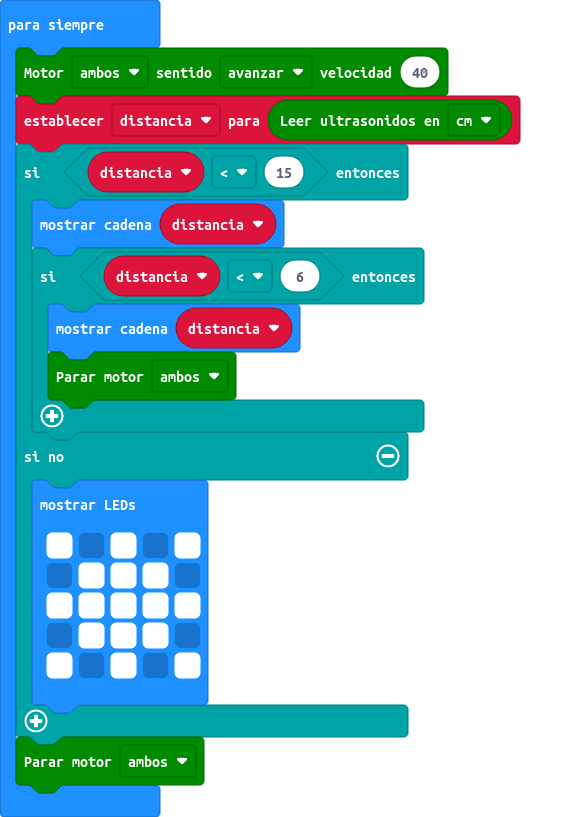
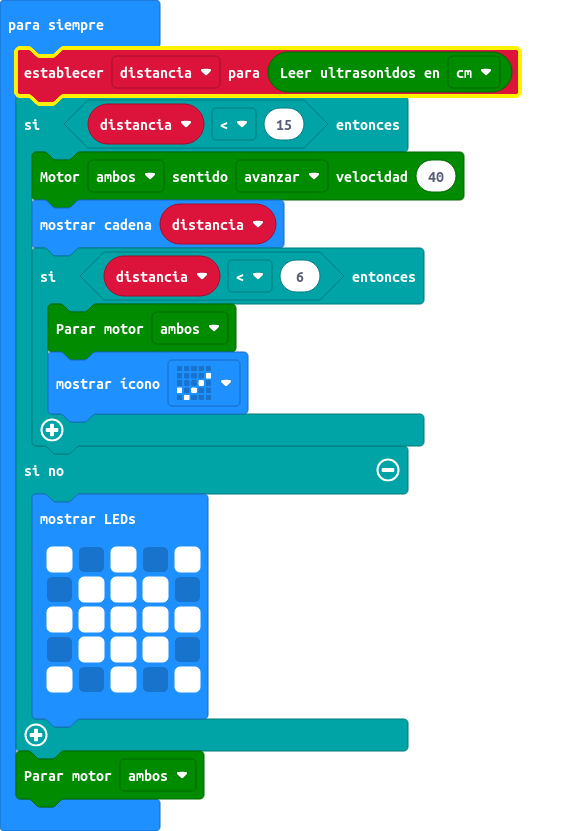
Actualizar main.blocks, main.ts

Changed region(s): [[0.0, 0.0306, 0.9213, 0.9486]]

diff --git a/main.ts b/main.ts
@@ -1,12 +1,12 @@
 let distancia = 0
 basic.forever(function () {
-    maqueen.motorRun(maqueen.Motors.All, maqueen.Dir.CW, 40)
     distancia = maqueen.Ultrasonic(PingUnit.Centimeters)
     if (distancia < 15) {
+        maqueen.motorRun(maqueen.Motors.All, maqueen.Dir.CW, 40)
         basic.showString("" + (distancia))
         if (distancia < 6) {
-            basic.showString("" + (distancia))
             maqueen.motorStop(maqueen.Motors.All)
+            basic.showIcon(IconNames.Yes)
         }
     } else {
         basic.showLeds(`
